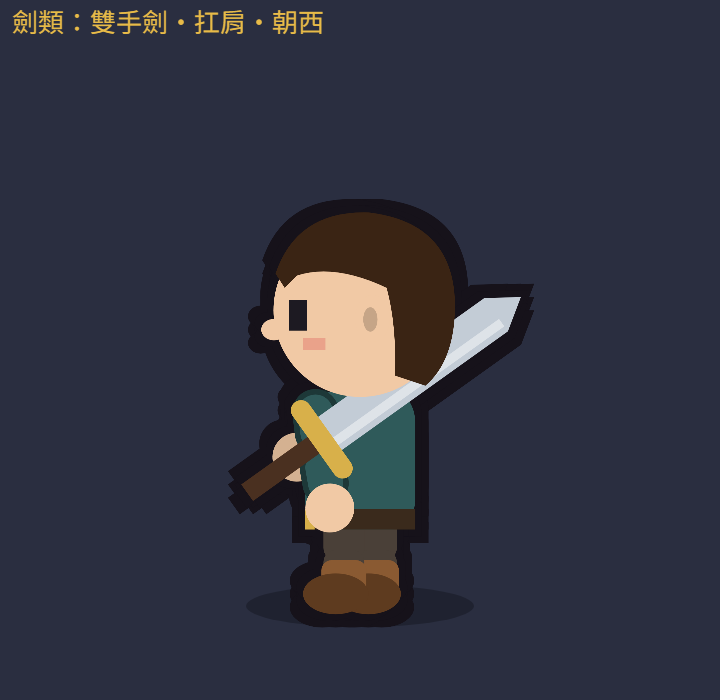
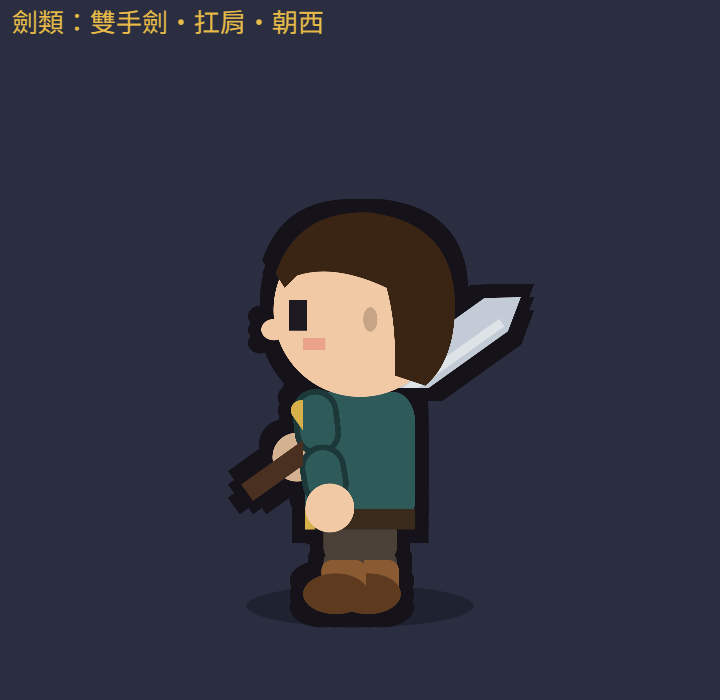
docs(art): Q v13 — west shoulder carry blade hidden by body

Changed region(s): [[0.3972, 0.54, 0.6111, 0.69]]

diff --git a/docs/art/sample/qDoll.js b/docs/art/sample/qDoll.js
@@ -588,7 +588,7 @@ window.QDoll = (() => {
   //   審查：「朝東劍身整段藏在頭後面，等於扛在遠側肩上」「金色護手頂到下巴」。副手握柄尾（+6.2），遠側肩轉到前面（farX）、手臂稍長（olen）才搆得到
   /* 第 10 版：舉到臉前上方（mid）手往前上移，護手在臉的前方上面、不壓到鼻尖（審查：「g2 護手左端蓋到鼻尖」） */
   /* 第 13 版：蓄力同扛肩，改成單手（one）：右手握柄、劍靠在右肩，左手垂下；舉到臉前上方起才兩手握 */
-  const GS_ATK = { from: { hand: [6.2, -14.6], a: -0.95, layer: "front", one: true }, fromW: { hand: [6.2, -14.6], a: -0.95, layer: "head", one: true }, mid: { hand: [13.4, -24.4], a: 0.45 }, to: { hand: [10.5, -12], a: 1.9, elbow: 1 }, og: [0, 6.8], mg: 1.2 };
+  const GS_ATK = { from: { hand: [6.2, -14.6], a: -0.95, layer: "front", one: true }, fromW: { hand: [6.2, -14.6], a: -0.95, layer: "head", one: true, clipBody: true }, mid: { hand: [13.4, -24.4], a: 0.45 }, to: { hand: [10.5, -12], a: 1.9, elbow: 1 }, og: [0, 6.8], mg: 1.2 };
   const KEY = {
     greatsword: { zh: "拄劍：雙手疊握劍柄在胸前，劍垂直往下，劍尖點在兩腳之間",
       /* 第 13 版：雙手往上 0.8～2.2，劍尖落在地面線（y ≈ +1，鞋底 +0.8），不懸空也不插進地裡（使用者：「長度或高度不構」） */
@@ -602,7 +602,7 @@ window.QDoll = (() => {
       front: { hand: [-5.6, -14.8], a: -0.4 },                                        // 劍身從右肩（畫面左）頂上越過往左上；左手垂在身側
       back: { hand: [5.6, -14.8], a: 0.4, behind: true },                             // 背面：右手和劍柄在身前，只畫肩線以上：劍身從右肩（畫面右）斜到背後上方；左手垂在身側
       side: { hand: [6.2, -14.6], a: -0.95, layer: "front" },                          // 朝東：劍靠在近側右肩、從下巴下面經過，劍身蓋在後腦頭髮上
-      sideW: { hand: [6.2, -14.6], a: -0.95, layer: "head" },  /* 第 10 版：整把往下 3.8、往後 1.6，金色護手離開下巴（近側左手仍搆得到柄尾）（審查：「扛肩朝西護手頂到下巴」） */      // 第 8 版：劍身架在肩膀上方、斜往後上方，從頭後面伸出；兩手在胸前（使用者：「把劍夾在腋下?」）。第 7 版：右手（主手）靠護手、左手（副手）握柄尾在更前面，兩手之間看得到劍柄；劍身沿肩膀往後、從頭後面伸出（審查：「後腦只露出一截劍尖，手什麼都沒握到」）
+      sideW: { hand: [6.2, -14.6], a: -0.95, layer: "head", clipBody: true },  /* 第 13 版：朝西右肩在遠側，劍身被身體擋住，只露出身體前緣外的握柄、拳頭和肩線以上（頭後面）的劍身 */  /* 第 10 版：整把往下 3.8、往後 1.6，金色護手離開下巴（近側左手仍搆得到柄尾）（審查：「扛肩朝西護手頂到下巴」） */      // 第 8 版：劍身架在肩膀上方、斜往後上方，從頭後面伸出；兩手在胸前（使用者：「把劍夾在腋下?」）。第 7 版：右手（主手）靠護手、左手（副手）握柄尾在更前面，兩手之間看得到劍柄；劍身沿肩膀往後、從頭後面伸出（審查：「後腦只露出一截劍尖，手什麼都沒握到」）
       atk: GS_ATK,
     },
     polearm: { zh: "正面斜持：上手在左胸、下手在右腰，槍尖朝左上；側面柄拄地、近側右手在胸前單手握，槍桿在臉的前方外側",
@@ -687,7 +687,7 @@ window.QDoll = (() => {
         og = "string"; layer = W ? "head" : "mid"; bowT = t; // 第 9 版：朝東弓在遠側左手、右手壓在弦上（右手臂畫在弓上面）；朝西弓在最前面
       }
       const wh = bow ? "off" : "main", hlen = ks.hlen && !pz("bowAim") ? ks.hlen : null, k = ik(SX[wh], hand, elbow, hlen); // elbow：手肘往後（−1）、往前上（+1）或往下（"down"，瞄準）
-      P = { wh, sA: k.sA + pz("arm"), eA: k.eA, a: a + pz("arm") + pz("dw"), og, mg, short, layer, split: true, farX: ks.farX, olen, hlen };
+      P = { wh, sA: k.sA + pz("arm"), eA: k.eA, a: a + pz("arm") + pz("dw"), og, mg, short, layer, split: true, farX: ks.farX, olen, hlen, clipBody: W && (typeof POSE?.atk === "number" && AK ? !!(AK.fromW?.clipBody && clamp01(POSE.atk) < 0.25) : !!ks.clipBody) };
     } else {
       // 6M／6N 片段或沒有關鍵姿勢的武器：主手臂角度 arm、武器角度 arm＋wpn；雙手武器出招時副手去握 og
       // 第 8 版：朝西時空手的遠側右手和朝東一樣垂在身後、露一點（審查：「朝東露一點，朝西完全看不到」）
@@ -854,7 +854,10 @@ window.QDoll = (() => {
       FAR = 0; FARH = 0;
       ctx.restore();
     };
-    const sideWeapon = () => { if (key && key.c === "bow") BOWP = { pull: SP.pull, nock: !SP.released }; mainWeapon(ctx, gear.main_hand, SP.h, SP.a, "side", SP.short, SP.ol, SP.mg); BOWP = null; mark("weapon");
+    const sideWeapon = () => { if (key && key.c === "bow") BOWP = { pull: SP.pull, nock: !SP.released };
+      if (SP.clipBody) { ctx.save(); ctx.beginPath(); ctx.rect(5.6, -80, 80, 160); ctx.rect(-80, -80, 160, 58.6); ctx.clip(); } /* 第 13 版：朝西扛肩，身體輪廓裡的劍身不畫（被身體擋住） */
+      mainWeapon(ctx, gear.main_hand, SP.h, SP.a, "side", SP.short, SP.ol, SP.mg); BOWP = null; mark("weapon");
+      if (SP.clipBody) ctx.restore();
       if (key && !anim && typeof POSE?.atk !== "number" && (key.c === "staff" || key.c === "polearm")) wrap(ctx, unit, SP.h, SP.a); }; /* 第 13 版：單手握杖、拄地長柄：四指繞過柄，柄穿過拳頭 */
     if (S) {
       if (!SP.far.front) sideArm(SP.far, false);

diff --git a/docs/art/關鍵姿勢檢查紀錄.md b/docs/art/關鍵姿勢檢查紀錄.md
@@ -57,7 +57,7 @@
 | `r02_gs-shoulder_front` | 是 | 是 | 是 | 是 | 右手（畫面左）在右胸前單手握柄，劍身越過右肩頂往左上，在頭的左外側；金色護手在肩前，離下巴遠；左手垂在身側 |
 | `r02_gs-shoulder_back` | 是（右手在身前被擋住） | 是（被擋住） | 是 | 是 | 劍身從右肩（畫面右）上方斜往右上；左手垂在身側看得到；右肩頭、上臂從身體邊緣露出 |
 | `r02_gs-shoulder_east`、`g1_gs-windup` | 是 | 是 | 是 | 是 | 近側右手在胸前握柄，握柄穿過拳頭；劍身從下巴下面經過近側肩、蓋在後腦頭髮上往後上；護手在胸口，不碰臉；遠側左手在背後腰邊露一點 |
-| `r02_gs-shoulder_west` | 是 | 是 | 是 | 是 | 遠側右手在胸前握柄、握柄蓋在拳頭上；劍身往後上、在頭後面伸出；近側左手垂在身側 |
+| `r02_gs-shoulder_west` | 是 | 是 | 是 | 是 | （美術 PM 回覆後補修）遠側右手在胸前、身體前緣外握柄，握柄蓋在拳頭上、柄尾往前下伸出；身體輪廓裡的劍身不畫（被身體擋住），胸前不再有劍身；劍身只在肩線以上、從後腦後面往右上伸出；護手只在身體前緣露出一點金色；近側左手垂在身側，蓋住拳頭的一小部分 |
 
 ## 三、同類自查與改前後比對（50 張不同）
 
@@ -92,6 +92,6 @@
 
 ## 七、要美術 PM 決定
 
-1. **弓背面看不到手**：照使用者「看起來是同一個持弓姿勢」，背面弓和兩手都在胸前、被身體擋住，只看得到箭袋和一點箭頭。這和第 13 版清單第 2 項「弓握在一隻手裡，手接著袖子」字面上衝突；若要看得到手，得讓背面換成另一個姿勢（例如弓垂在左手身側）。
-2. **扛肩朝西**：劍身從胸前畫到頭後面，蓋在近側胸口上（和第 12 版以前的朝西一樣）；嚴格說靠在遠側肩的劍身應被身體擋住，若要改，朝西只會剩下握柄和頭後的一段劍身。
-3. **握杖的四指（`wrap`）**：握持點上，杖身仍畫在手掌上面，但四指那一條蓋在杖身上，和「武器畫在手的上面」不完全一致；這是為了做出「杖身穿過拳頭」。
+1. **弓背面看不到手**（美術 PM：先照現在的做法，拿去問使用者）：照使用者「看起來是同一個持弓姿勢」，背面弓和兩手都在胸前、被身體擋住，只看得到箭袋和一點箭頭。這和第 13 版清單第 2 項「弓握在一隻手裡，手接著袖子」字面上衝突；若要看得到手，得讓背面換成另一個姿勢（例如弓垂在左手身側）。
+2. ~~扛肩朝西~~：美術 PM 回覆「要改」，已修。`sideW`、`GS_ATK.fromW` 加 `clipBody`：朝西扛肩時劍身只畫在身體前緣外（x > 5.6）和肩線以上（y < −21.4），其他被身體擋住。重拍後只有 `key/r02_gs-shoulder_west` 和 `key-poses.png` 不同，其他 160 張特寫和 5 張樣張逐位元組相同；`lockcheck.py` 14／14。
+3. **握杖的四指（`wrap`）**（美術 PM：可以接受）：握持點上，杖身仍畫在手掌上面，但四指那一條蓋在杖身上，和「武器畫在手的上面」不完全一致；這是為了做出「杖身穿過拳頭」。
